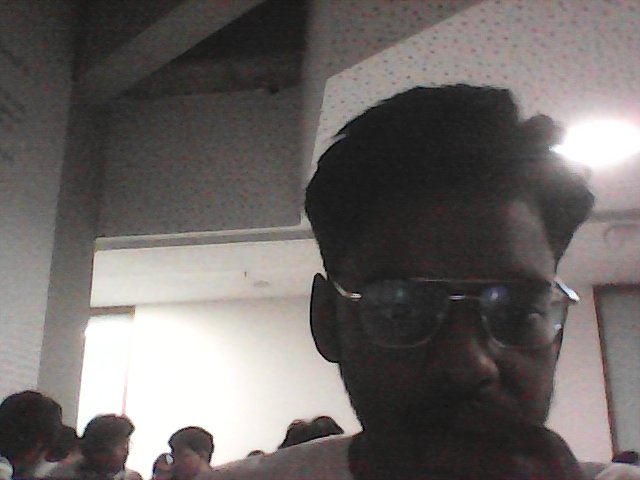
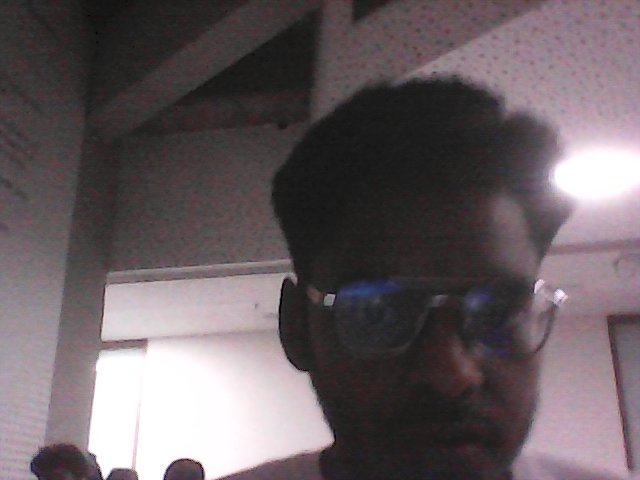
Improve WebRTC meeting connectivity

diff --git a/FrontEnd/room.js b/FrontEnd/room.js
@@ -45,7 +45,14 @@ const ICE_SERVERS = {
             urls: "stun:stun.l.google.com:19302"
         },
         {
-            urls: "stun:stun1.l.google.com:19302"
+            urls: [
+                "turn:eu-central.turnix.io:3478?transport=udp",
+                "turn:eu-central.turnix.io:3478?transport=tcp",
+                "turns:eu-central.turnix.io:443?transport=udp",
+                "turns:eu-central.turnix.io:443?transport=tcp"
+            ],
+            username: "38c11c0c-a83b-4638-a0a0-0ec5c21429a7",
+            credential: "888dedb9ca498312e68c0002f222dafa"
         }
     ]
 };
@@ -286,37 +293,39 @@ function createPeerConnection() {
         return peerConnection;
     }
 
+    // Create peer connection
     peerConnection = new RTCPeerConnection(ICE_SERVERS);
 
     remoteStream = new MediaStream();
-
     remoteVideo.srcObject = remoteStream;
 
-    // Add local camera and microphone tracks
+
+    // =====================================
+    // ADD LOCAL CAMERA AND MICROPHONE
+    // =====================================
+
     localStream.getTracks().forEach(track => {
 
-        peerConnection.addTrack(
-            track,
-            localStream
-        );
+        peerConnection.addTrack(track, localStream);
 
     });
 
 
-    // Receive remote media
+    // =====================================
+    // RECEIVE REMOTE MEDIA
+    // =====================================
+
     peerConnection.ontrack = event => {
 
-        event.streams[0].getTracks().forEach(track => {
+        const track = event.track;
 
-            const alreadyAdded = remoteStream
-                .getTracks()
-                .some(existing => existing.id === track.id);
+        const alreadyAdded = remoteStream
+            .getTracks()
+            .some(existing => existing.id === track.id);
 
-            if (!alreadyAdded) {
-                remoteStream.addTrack(track);
-            }
-
-        });
+        if (!alreadyAdded) {
+            remoteStream.addTrack(track);
+        }
 
         remotePlaceholder.style.display = "none";
 
@@ -327,10 +336,16 @@ function createPeerConnection() {
     };
 
 
-    // Send ICE candidates to the other participant
+    // =====================================
+    // SEND ICE CANDIDATES
+    // =====================================
+
     peerConnection.onicecandidate = event => {
 
-        if (event.candidate && signalingSocket?.readyState === WebSocket.OPEN) {
+        if (
+            event.candidate &&
+            signalingSocket?.readyState === WebSocket.OPEN
+        ) {
 
             sendSignal(
                 "ice_candidate",
@@ -342,10 +357,73 @@ function createPeerConnection() {
     };
 
 
-    // Connection state
+    // =====================================
+    // ICE GATHERING STATE
+    // =====================================
+
+    peerConnection.onicegatheringstatechange = () => {
+
+        console.log(
+            "ICE Gathering State:",
+            peerConnection.iceGatheringState
+        );
+
+    };
+
+
+    // =====================================
+    // ICE CONNECTION STATE
+    // =====================================
+
+    peerConnection.oniceconnectionstatechange = () => {
+
+        const state = peerConnection.iceConnectionState;
+
+        console.log("ICE Connection State:", state);
+
+        if (state === "checking") {
+            setStatus("Checking network connectivity...");
+        }
+
+        if (state === "connected" || state === "completed") {
+            setStatus("Media connection established!");
+        }
+
+        if (state === "failed") {
+            setStatus("ICE failed. TURN server may be required.");
+        }
+
+        if (state === "disconnected") {
+            setStatus("Media connection interrupted.");
+        }
+
+    };
+
+
+    // =====================================
+    // ICE CANDIDATE ERRORS
+    // =====================================
+
+    peerConnection.onicecandidateerror = event => {
+
+        console.error("ICE Candidate Error:", {
+            code: event.errorCode,
+            text: event.errorText,
+            url: event.url
+        });
+
+    };
+
+
+    // =====================================
+    // PEER CONNECTION STATE
+    // =====================================
+
     peerConnection.onconnectionstatechange = () => {
 
         const state = peerConnection.connectionState;
+
+        console.log("Peer Connection State:", state);
 
         setConnectionStatus(state);
 
@@ -363,10 +441,10 @@ function createPeerConnection() {
 
     };
 
+
     return peerConnection;
+
 }
-
-
 // ------------------------------------
 // SEND SIGNALING MESSAGE
 // ------------------------------------
@@ -520,9 +598,13 @@ function connectSignaling() {
 
         signalingSocket.onopen = () => {
 
+            console.log("WEBSOCKET CONNECTED");
+
             setConnectionStatus("Waiting for participant");
 
-            setStatus("Connected to meeting server. Waiting for another user.");
+            setStatus(
+                "Connected to meeting server. Waiting for another user."
+            );
 
         };
 
@@ -637,15 +719,18 @@ function connectSignaling() {
         };
 
 
-        signalingSocket.onclose = () => {
+        signalingSocket.onclose = event => {
+
+            console.error("WEBSOCKET CLOSED:", {
+                code: event.code,
+                reason: event.reason,
+                clean: event.wasClean
+            });
 
             if (!settled) {
-
                 settled = true;
                 clearTimeout(connectionTimeout);
-
                 reject(new Error("Meeting server connection closed."));
-
             }
 
             if (!isLeaving) {
